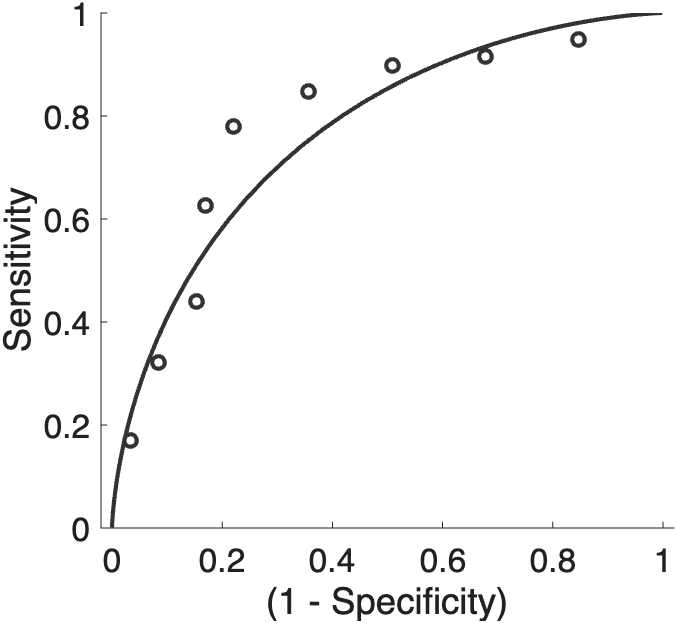
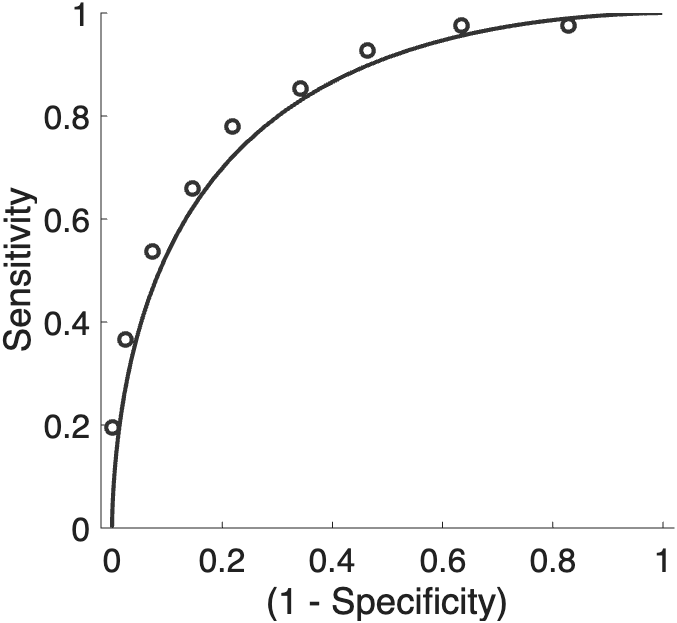
docs Part 1: consolidated properties, one-line loaders, xval/test split, forced-choice ROC
Update multivariate_classification_with_SVM.md (Part 1) for the current API
and the requested content changes:

1. Property consistency: replace the removed flat aliases (S.yfit, S.w,
   S.dist_from_hyperplane_xval, S.crossval_accuracy, ...) with the
   consolidated paths (fitted_values.*, weights.w, error_metrics.*.value,
   cv_partition.*, ml_model), with a note explaining the new layout.
2. Add an early 'one-line loaders' shortcut box (load_image_set
   'DPSP_hotwarm' / 'DPSP_rejectorfriend').
3. roc_plot: add single-interval vs forced-choice ('twochoice') section —
   forced-choice builds in pairing info (each person their own control),
   easier and higher; report both per use case.
4. Cross-validate within the 'xval' partition and apply the trained model
   once to the 'test' partition (predict(pm, X_test)), with an honest
   small-n interpretation and a leakage check.

Regenerated svm_hotvswarm_roc.png / svm_hotvswarm_confusion.png from the
xval run so figures match the text (cv acc ~79%, SI 79% vs FC 88%; test
SI 64% / FC 72%). Verified end-to-end in MATLAB.

diff --git a/docs/markdown_tutorials/multivariate_classification_with_SVM/multivariate_classification_with_SVM_part2.m b/docs/markdown_tutorials/multivariate_classification_with_SVM/multivariate_classification_with_SVM_part2.m
@@ -9,12 +9,25 @@
 % Open this file in MATLAB and "Save As" .mlx to get a Live Script.
 
 %% 1. Load DPSP
-hw_obj = load_image_set('DPSP_hotwarm');
-rf_obj = load_image_set('DPSP_rejectorfriend');
+hw_obj = load_image_set('DPSP_hotwarm', 'noverbose');
+rf_obj = load_image_set('DPSP_rejectorfriend', 'noverbose');
 
 X  = double(hw_obj.dat');
 Y  = hw_obj.Y;
 id = grp2idx(hw_obj.metadata_table.subj_id);
+
+%%
+
+
+[cverr, stats, optout, pm_svm] = predict(hw_obj, 'algorithm_name', 'cv_svm', 'nfolds', 5, 'newapi');
+
+confusion_matrix(pm_svm);
+
+montage(pm_svm);
+surface(pm_svm);
+
+%%
+[cverr, stats, optout, pm_pcr] = predict(hw_obj, 'algorithm_name', 'cv_pcr', 'nfolds', 5, 'newapi');
 
 %% 2. Construct a predictive_model
 pm = predictive_model( ...

diff --git a/docs/markdown_tutorials/multivariate_classification_with_SVM/multivariate_classification_with_SVM.md b/docs/markdown_tutorials/multivariate_classification_with_SVM/multivariate_classification_with_SVM.md
@@ -37,6 +37,20 @@ rejection co-localized in similar gross anatomy.
 - Paper (open access): [Woo et al., 2014, *Nat. Commun.* — doi:10.1038/ncomms6380](https://doi.org/10.1038/ncomms6380)
   · [local PDF](../../../Neuroimaging_Pattern_Masks/Multivariate_signature_patterns/2015_Woo_NatureComms_Rejection/Woo_2014_NatComms_dpSP_romantic_rejection.pdf)
 
+> **Shortcut — one-line loaders.** Sections 1–3 below build the two
+> classification inputs by hand (load four objects, gray-matter mask,
+> concatenate, set `±1` labels, build a subject grouping vector) so you can
+> see every step. If you just want the ready-to-classify objects, two
+> keyword loaders do all of that for you:
+> ```matlab
+> hw_obj = load_image_set('DPSP_hotwarm', 'noverbose');        % Hot (+1) vs Warm (−1)
+> rf_obj = load_image_set('DPSP_rejectorfriend', 'noverbose'); % Rejector (+1) vs Friend (−1)
+> ```
+> Each returns an `fmri_data` object already masked, with `.Y` set to `±1`
+> and `subj_id` / `Condition` / `Orig_partition` in `.metadata_table`.
+> Part 2 onward uses these loaders; Part 1 keeps the manual build for
+> transparency.
+
 ## 1. Load the data
 
 The sample data live in `CanlabCore/Sample_datasets/DPSP_pain_rejection_participant_maps/`
@@ -94,10 +108,13 @@ aside so the model you ultimately ship can be evaluated *once* on data
 that was never used to choose anything — model, threshold, or
 hyperparameter. This is the cleanest form of out-of-sample accuracy you
 can report, but it costs you participants in training; somewhere around
-**n ≥ 60** is a reasonable floor for it to be meaningful. For the rest
-of this tutorial we'll use all 59 participants in cross-validation, then
-revisit the held-out partition in a later instalment when we add
-cross-classification.
+**n ≥ 60** is a reasonable floor for it to be meaningful. In this tutorial
+we **cross-validate within the `'xval'` partition** (41/59 participants) to
+estimate and tune the model, then **apply the trained model once to the
+`'test'` partition** (§3, *Apply to the held-out test set*) to get a clean
+out-of-sample accuracy. Keeping the two roles separate — `'xval'` for every
+choice you make, `'test'` for the single final report — is the discipline
+that keeps decoding accuracy honest.
 
 ## 1a. Apply a gray-matter mask (optional)
 
@@ -258,6 +275,12 @@ hw_obj.Y = [ones(n,1); -ones(n,1)];
 hw_id_strings = [single_subject_images_hot.metadata_table.subj_id; ...
                  single_subject_images_warm.metadata_table.subj_id];
 [~, ~, hw_id] = unique(hw_id_strings, 'stable');
+
+% Cross-validation vs final-holdout split (carried in Orig_partition)
+partition = [single_subject_images_hot.metadata_table.Orig_partition; ...
+             single_subject_images_warm.metadata_table.Orig_partition];
+is_xval = strcmp(partition, 'xval');     % 82 images (41 subjects × 2)
+is_test = strcmp(partition, 'test');     % 36 images (18 subjects × 2)
 ```
 
 ### Train and cross-validate
@@ -271,9 +294,10 @@ first pass we turn off hyperparameter optimization, repeats, and
 bootstrap:
 
 ```matlab
-X  = double(hw_obj.dat');   % images × voxels
-Y  = hw_obj.Y;              % +1 / -1
-id = hw_id;                 % subject grouping (1..59)
+% Cross-validate within the 'xval' partition only
+X  = double(hw_obj.dat(:, is_xval)');   % images × voxels
+Y  = hw_obj.Y(is_xval);                 % +1 / -1
+id = hw_id(is_xval);                     % subject grouping
 
 rng(2026);                  % reproducibility
 S_hw = xval_SVM(X, Y, id, ...
@@ -281,32 +305,44 @@ S_hw = xval_SVM(X, Y, id, ...
     'nooptimize', 'norepeats', 'nobootstrap');
 ```
 
-`S_hw` is a `predictive_model` object. The fields you'll most often use:
+`S_hw` is a `predictive_model` object. Its properties are organised into
+categorised sub-structs (hyperparameters vs fitted state); the ones you'll
+most often read:
 
-| field | what it is |
+| access path | what it is |
 | --- | --- |
-| `Y` / `yfit`                  | true and **cross-validated predicted** class labels (`±1`) |
-| `dist_from_hyperplane_xval`   | cross-validated continuous SVM scores (signed distance to the hyperplane) — use these as your "what the brain said" measure |
-| `class_probability_xval`      | cross-validated class-membership probabilities (Platt scaling) |
-| `crossval_accuracy`           | single-interval cross-validated accuracy (%) |
-| `classification_d_singleinterval`, `d_within` | classification effect sizes (Cohen's *d*) — see below |
-| `w`                           | model weights (one per voxel) from the final model fit to *all* data |
-| `trIdx` / `teIdx`             | training / test indices per fold |
-| `ClassificationModel`         | the underlying `ClassificationLinear` / `ClassificationSVM` object |
+| `S_hw.Y`                                      | true class labels (`±1`) |
+| `S_hw.fitted_values.yfit`                     | **cross-validated predicted** class labels (`±1`) |
+| `S_hw.fitted_values.dist_from_hyperplane_xval`| cross-validated continuous SVM scores (signed distance to the hyperplane) — your "what the brain said" measure |
+| `S_hw.error_metrics.crossval_accuracy.value`  | single-interval cross-validated accuracy (%) |
+| `S_hw.error_metrics.d_singleinterval.value`   | single-interval classification effect size (Cohen's *d*) |
+| `S_hw.error_metrics.d_within.value`           | within-person classification *d* (present when groups are paired) |
+| `S_hw.weights.w`                              | model weights (one per voxel) from the final model fit to all `xval` data |
+| `S_hw.cv_partition.trIdx` / `.teIdx`          | training / test indices per fold |
+| `S_hw.ml_model`                               | the underlying `ClassificationLinear` / `ClassificationSVM` object |
 
-For this run the headline numbers are
+> **Property layout note.** Earlier CANlab releases exposed these as flat
+> fields (`S_hw.yfit`, `S_hw.dist_from_hyperplane_xval`, `S_hw.w`, …). Those
+> flat aliases were removed when the object's properties were consolidated;
+> each value now has exactly one canonical path (a top-level property or a
+> categorised sub-struct field, with error metrics stored as
+> `(value, descrip)` tuples — hence the `.value` suffix). See
+> `docs/predictive_model_methods.md` for the full map.
+
+For this run (cross-validated within the 41-subject `'xval'` partition) the
+headline numbers are
 
 | metric | value |
 | --- | --- |
-| cross-validated accuracy             | **77.1 %** (chance = 50 %; *P* < 10⁻⁸) |
-| classification *d* (single-interval) | **1.05** |
-| classification *d* (within-person)   | **0.96** |
+| cross-validated accuracy             | **≈79 %** (chance = 50 %; *P* < 10⁻⁶) |
+| classification *d* (single-interval) | **≈1.36** |
+| classification *d* (within-person)   | **≈1.29** |
 
 ### Reading the ROC plot
 
 ```matlab
 create_figure('ROC');
-ROC = roc_plot(S_hw.dist_from_hyperplane_xval, S_hw.Y > 0, 'threshold', 0);
+ROC = roc_plot(S_hw.fitted_values.dist_from_hyperplane_xval, S_hw.Y > 0, 'threshold', 0);
 set(gca, 'FontSize', 16);
 ```
 
@@ -317,10 +353,44 @@ scores and traces sensitivity (true-positive rate for "Hot") against
 1 − specificity (false-positive rate). The diagonal is chance. With
 `'threshold', 0` we evaluate accuracy at the SVM's natural decision
 boundary (the hyperplane itself); `roc_plot` also reports the
-threshold-free **AUC** (here 0.80) and a Gaussian-model effect size
-*d_a* (here 1.05). At the *a priori* threshold of 0 we get
-*sensitivity* = 81 % (95 % CI 70–91 %), *specificity* = 73 %
-(62–84 %), and *PPV* = 75 %.
+threshold-free **AUC** (here ≈ 0.87) and a Gaussian-model effect size
+*d_a* (here ≈ 1.36). At the *a priori* threshold of 0 we get
+*sensitivity* ≈ 78 %, *specificity* ≈ 80 %, and *PPV* ≈ 80 %.
+
+#### Single-interval vs. forced-choice (`'twochoice'`)
+
+`roc_plot` can score the same scores two different ways, and **both are
+worth reporting** because they answer different questions:
+
+- **Single-interval** (the default above). Each image is classified on its
+  own: is this map's score above or below the threshold? This is the right
+  metric when, at test time, observations arrive *one at a time* and you
+  must commit to "Hot" or "Warm" for each in isolation — no knowledge of
+  how many of each class there are, or which images belong together.
+
+- **Forced-choice** / two-alternative (`'twochoice'`). Scores are compared
+  *within a matched pair* — here each participant's Hot map vs. their own
+  Warm map — and the higher-scoring one is labelled "Hot":
+  ```matlab
+  create_figure('ROC 2AFC');
+  scores = S_hw.fitted_values.dist_from_hyperplane_xval;
+  ROC2 = roc_plot(scores, S_hw.Y > 0, 'twochoice');
+  ```
+  Forced-choice builds in **more prior information**: it knows that for each
+  participant there is *exactly one* Hot and *one* Warm image, and *which*
+  two images belong to that participant. In effect **each person serves as
+  their own control**, so between-subject differences in overall signal
+  level cancel out. That makes it an *easier* problem, and forced-choice
+  accuracy is typically **higher** than single-interval accuracy on the
+  same scores (here ≈ 88 % vs. 79 %).
+
+Report **single-interval** accuracy when the deployment really is
+one-image-at-a-time and unpaired (e.g. screening an individual scan).
+Report **forced-choice** accuracy when the scientific claim is about
+discriminating two conditions *within* a person (the paired design here),
+where it is the more powerful and appropriate test. Quoting both makes the
+comparison-design dependence explicit rather than hidden in a single
+number.
 
 ### Continuous scores → Cohen's *d* (often more sensitive than accuracy)
 
@@ -370,9 +440,56 @@ supported. Turn hold off."*
 
 Rows are *true* labels, columns are *predicted* labels, and the cells
 along each row and column are summarised as row- and column-normalised
-percentages. The classifier correctly classifies 48 / 59 Hot maps and
-43 / 59 Warm maps, i.e., it is slightly more sensitive to *Hot* than to *Warm*
+percentages. The classifier is slightly more sensitive to *Hot* than to *Warm*
 at this decision threshold. Raw counts are in `rawConf`.
+
+### Apply to the held-out test set
+
+Everything above used only the `'xval'` partition. The model `S_hw` ships
+with a final classifier (`S_hw.ml_model`) trained on all `xval` images, so
+we can now apply it **once** to the `'test'` participants — data that
+played no part in fitting, scaling, or any choice we made. Because
+`S_hw` is a `predictive_model`, `predict` runs the stored model on a new
+`[images × voxels]` matrix:
+
+```matlab
+X_test = double(hw_obj.dat(:, is_test)');     % 36 held-out images × voxels
+Y_test = hw_obj.Y(is_test);
+
+[yhat_test, score_test] = predict(S_hw, X_test);   % labels and signed scores
+test_acc = 100 * mean(yhat_test == Y_test);
+fprintf('Held-out test accuracy: %.1f%%\n', test_acc);
+
+create_figure('ROC test');
+ROC_test = roc_plot(score_test(:, end), Y_test > 0, 'threshold', 0);            % single-interval
+ROC_test_fc = roc_plot(score_test(:, end), Y_test > 0, 'twochoice', 'noplot');  % forced-choice
+```
+
+On this run the held-out test gives **≈ 64 %** single-interval and
+**≈ 72 %** forced-choice accuracy (AUC ≈ 0.69) — below the ≈ 79 % / 88 %
+cross-validated numbers, but with **wide confidence intervals** (only 18
+test subjects: the single-interval result is not significant, *P* ≈ 0.13).
+A gap of this size on a test set this small is most consistent with
+**sampling variability**, not a problem with the cross-validation. The
+checks to make:
+
+- If the cross-validated and test numbers are similar (within their CIs),
+  the cross-validation was honest and the model generalises to genuinely
+  unseen participants — the reassuring outcome.
+- If test accuracy is *dramatically* below cross-validation (e.g. CV in the
+  high 80s, test near chance), suspect **leakage** into cross-validation —
+  images from the same subject split across folds, or a preprocessing /
+  feature-selection step fit on all data rather than per fold.
+
+Because the test set here is small, treat it as a confirmation with a wide
+error bar, not a precise point estimate; the forced-choice number is the
+more powerful read on this paired design.
+
+> **One-shot discipline.** Touch the test set exactly once, at the very
+> end. If you peek at test accuracy and then go back and change the model,
+> the threshold, or a hyperparameter, the test set has become part of your
+> training loop and no longer gives an unbiased estimate. Do all of that on
+> `'xval'` (with nested cross-validation for tuning — see the API tutorial).
 
 ---
 